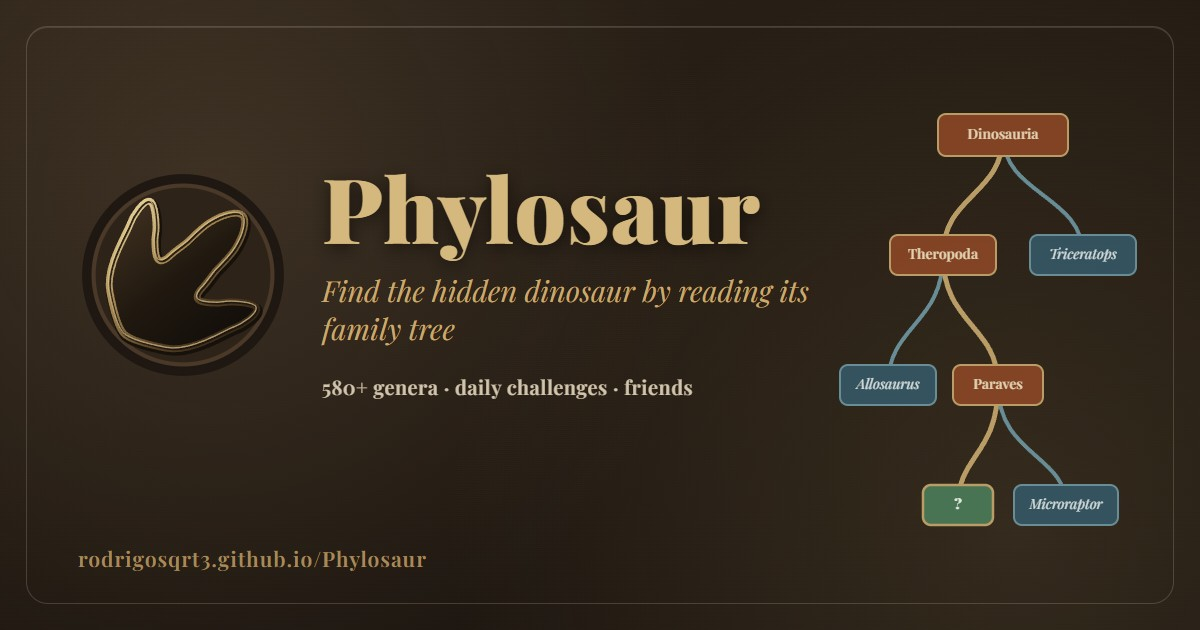
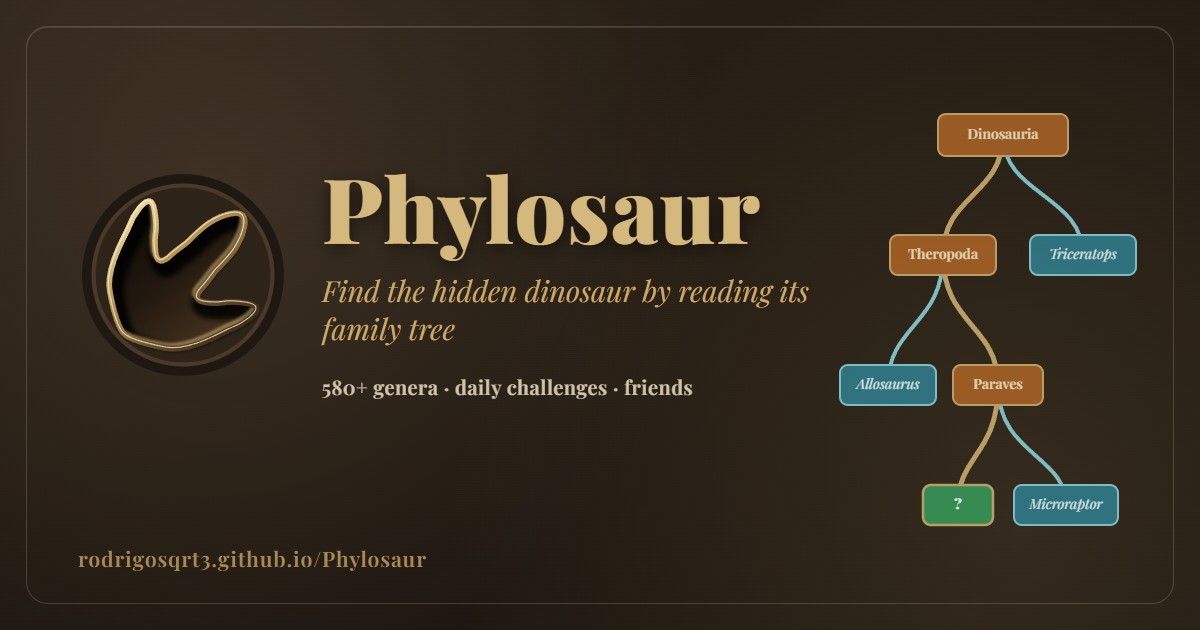
Add files via upload

diff --git a/generate-pwa-icons.html b/generate-pwa-icons.html
@@ -1,0 +1,133 @@
+<!DOCTYPE html>
+<html lang="en">
+<head>
+  <meta charset="UTF-8">
+  <meta name="viewport" content="width=device-width, initial-scale=1.0">
+  <title>Phylosaur PWA Icon Generator</title>
+  <style>
+    * { box-sizing: border-box; }
+    body {
+      min-height: 100vh;
+      margin: 0;
+      display: grid;
+      place-items: center;
+      padding: 24px;
+      color: #f8f6f3;
+      background: #1f1812;
+      font-family: Georgia, serif;
+      text-align: center;
+    }
+    main {
+      width: min(620px, 100%);
+      padding: 32px;
+      background: #2c2318;
+      border: 2px solid #4a3829;
+      border-radius: 8px;
+    }
+    svg { width: 180px; height: 180px; border-radius: 50%; }
+    h1 { color: #d4b87e; }
+    p { color: #a68a5a; line-height: 1.6; }
+    .buttons { display: grid; gap: 10px; margin-top: 24px; }
+    button {
+      min-height: 48px;
+      padding: 12px 18px;
+      color: #1a1410;
+      background: #c9a96e;
+      border: 2px solid #8b7355;
+      border-radius: 4px;
+      font: 600 14px Georgia, serif;
+      cursor: pointer;
+    }
+    #status { min-height: 24px; margin-top: 18px; color: #c8e6c9; }
+  </style>
+</head>
+<body>
+  <main>
+    <svg id="source-icon" xmlns="http://www.w3.org/2000/svg" viewBox="0 0 512 512" role="img" aria-labelledby="title desc">
+  <title id="title">Phylosaur</title>
+  <desc id="desc">A theropod footprint pressed into a dark circular seal, with a gold rim and a shadowed interior.</desc>
+  <defs>
+    <path id="footprint" d="M511.517 370.284c-5.971-20.294-92.954-22.906-113.159-18.866-20.216 4.041-76.79 2.68-88.913-9.443-12.124-12.124 4.041-32.329 16.175-44.451 12.124-12.124 38.389-50.524 46.472-58.606 8.082-8.082 50.166-50.378 65.325-74.758 30.988-49.843 41.437-98.68 25.262-114.845-16.164-16.164-65.003-5.727-114.834 25.262-24.38 15.17-66.688 57.244-74.769 65.325-8.083 8.083-46.472 34.36-58.606 46.483-12.122 12.124-32.328 28.287-44.451 16.164-12.122-12.124-13.474-68.698-9.433-88.902 4.041-20.205 1.419-107.187-18.866-113.16C121.438-5.483 83.798 44.94 68.984 87.37c-8.685 24.871-82.852 141.446-66.688 226.319 16.175 84.872 31 127.982 49.507 146.503 18.519 18.519 61.642 33.343 146.503 49.507 84.872 16.164 201.448-57.991 226.319-66.676 42.431-14.825 92.853-52.466 86.892-72.739z"/>
+    <clipPath id="footprint-clip"><use href="#footprint"/></clipPath>
+    <linearGradient id="imprint-rim" x1="15%" y1="8%" x2="88%" y2="92%">
+      <stop offset="0" stop-color="#ecd49a"/>
+      <stop offset="0.34" stop-color="#b8955a"/>
+      <stop offset="0.7" stop-color="#6a4f2c"/>
+      <stop offset="1" stop-color="#3a2a18"/>
+    </linearGradient>
+    <linearGradient id="imprint-floor" x1="12%" y1="6%" x2="86%" y2="94%">
+      <stop offset="0" stop-color="#0d0906"/>
+      <stop offset="0.45" stop-color="#22180f"/>
+      <stop offset="1" stop-color="#4a3620"/>
+    </linearGradient>
+    <filter id="soft" x="-20%" y="-20%" width="140%" height="140%"><feGaussianBlur stdDeviation="9"/></filter>
+    <filter id="softer" x="-20%" y="-20%" width="140%" height="140%"><feGaussianBlur stdDeviation="4"/></filter>
+    <filter id="cast" x="-18%" y="-18%" width="145%" height="150%" color-interpolation-filters="sRGB">
+      <feGaussianBlur in="SourceAlpha" stdDeviation="5" result="b"/>
+      <feOffset in="b" dx="3" dy="9" result="o"/>
+      <feFlood flood-color="#050302" flood-opacity="0.85"/>
+      <feComposite in2="o" operator="in" result="s"/>
+      <feMerge><feMergeNode in="s"/><feMergeNode in="SourceGraphic"/></feMerge>
+    </filter></defs>
+  <circle cx="256" cy="256" r="246" fill="#1f1812"/>
+  <circle cx="256" cy="256" r="218" fill="#2d2318" stroke="#4a3829" stroke-width="10"/>
+  <g transform="translate(76 76) scale(.703125)">
+    <use href="#footprint" fill="#0a0705" filter="url(#cast)"/>
+    <use href="#footprint" fill="url(#imprint-floor)"/>
+    <g clip-path="url(#footprint-clip)">
+      <use href="#footprint" fill="none" stroke="#000" stroke-opacity="0.85" stroke-width="70" transform="translate(16 22)" filter="url(#soft)"/>
+      <use href="#footprint" fill="none" stroke="#d9b876" stroke-opacity="0.55" stroke-width="16" transform="translate(-10 -13)" filter="url(#softer)"/>
+    </g>
+    <use href="#footprint" fill="none" stroke="url(#imprint-rim)" stroke-width="20" stroke-linejoin="round"/>
+    <use href="#footprint" fill="none" stroke="#fff3d2" stroke-opacity="0.75" stroke-width="4" stroke-linejoin="round" transform="translate(-3 -4)"/>
+  </g>
+</svg>
+
+    <h1>Phylosaur PWA Icons</h1>
+    <p>Click each button and keep the downloaded file name unchanged.</p>
+
+    <div class="buttons">
+      <button type="button" onclick="downloadIcon(192, 'pwa-icon-192.png')">Download pwa-icon-192.png</button>
+      <button type="button" onclick="downloadIcon(512, 'pwa-icon-512.png')">Download pwa-icon-512.png</button>
+      <button type="button" onclick="downloadIcon(180, 'apple-touch-icon.png')">Download apple-touch-icon.png</button>
+    </div>
+
+    <div id="status" aria-live="polite"></div>
+  </main>
+
+  <script>
+    async function downloadIcon(size, fileName) {
+      const source = document.getElementById('source-icon');
+      const serialized = new XMLSerializer().serializeToString(source);
+      const blob = new Blob([serialized], { type: 'image/svg+xml;charset=utf-8' });
+      const sourceUrl = URL.createObjectURL(blob);
+      const image = new Image();
+
+      await new Promise((resolve, reject) => {
+        image.onload = resolve;
+        image.onerror = reject;
+        image.src = sourceUrl;
+      });
+
+      const canvas = document.createElement('canvas');
+      canvas.width = size;
+      canvas.height = size;
+      const context = canvas.getContext('2d');
+      context.drawImage(image, 0, 0, size, size);
+      URL.revokeObjectURL(sourceUrl);
+
+      const pngBlob = await new Promise(resolve => canvas.toBlob(resolve, 'image/png'));
+      const downloadUrl = URL.createObjectURL(pngBlob);
+      const link = document.createElement('a');
+      link.href = downloadUrl;
+      link.download = fileName;
+      document.body.appendChild(link);
+      link.click();
+      link.remove();
+      setTimeout(() => URL.revokeObjectURL(downloadUrl), 1000);
+
+      document.getElementById('status').textContent = `${fileName} created successfully.`;
+    }
+  </script>
+</body>
+</html>

diff --git a/index.html b/index.html
@@ -62,7 +62,7 @@
     }
   }
   </script>
-  <link rel="icon" type="image/svg+xml" href="pwa-icon.svg">
+  <link rel="icon" type="image/svg+xml" href="favicon.svg">
   <link rel="apple-touch-icon" sizes="180x180" href="apple-touch-icon.png">
   <link rel="manifest" href="manifest.webmanifest">
   <meta name="application-name" content="Phylosaur">
@@ -88,20 +88,20 @@
   <script defer src="https://cdn.jsdelivr.net/npm/@supabase/supabase-js@2.117.1/dist/umd/supabase.js"
           integrity="sha384-K1nraABOP/zFehpLIUksXebbs7jMpB8gYMlb+uhVKZcWT/9Vkq1+qhv6ndC+1Yuz"
           crossorigin="anonymous"></script>
-  <link rel="stylesheet" href="style.css?v=211">
+  <link rel="stylesheet" href="style.css?v=212">
   
-  <script defer src="js/config.js?v=211"></script>
-  <script defer src="js/state.js?v=211"></script>
-  <script defer src="js/i18n.js?v=211"></script>
-  <script defer src="js/api.js?v=211"></script>
-  <script defer src="js/autocomplete.js?v=211"></script>
-  <script defer src="js/db.js?v=211"></script>
-  <script defer src="js/auth.js?v=211"></script>
-  <script defer src="js/ui.js?v=211"></script>
-  <script defer src="js/screens.js?v=211"></script>
-  <script defer src="js/tree.js?v=211"></script>
-  <script defer src="js/game.js?v=211"></script>
-  <script defer src="js/main.js?v=211"></script>
+  <script defer src="js/config.js?v=212"></script>
+  <script defer src="js/state.js?v=212"></script>
+  <script defer src="js/i18n.js?v=212"></script>
+  <script defer src="js/api.js?v=212"></script>
+  <script defer src="js/autocomplete.js?v=212"></script>
+  <script defer src="js/db.js?v=212"></script>
+  <script defer src="js/auth.js?v=212"></script>
+  <script defer src="js/ui.js?v=212"></script>
+  <script defer src="js/screens.js?v=212"></script>
+  <script defer src="js/tree.js?v=212"></script>
+  <script defer src="js/game.js?v=212"></script>
+  <script defer src="js/main.js?v=212"></script>
 </head>
 <body>
   <script>

diff --git a/sw.js b/sw.js
@@ -1,6 +1,6 @@
 /// <reference lib="webworker" />
 
-const CACHE_VERSION = "phylosaur-shell-v211";
+const CACHE_VERSION = "phylosaur-shell-v212";
 const CORE_ASSETS = [
   "./",
   "./index.html",
@@ -9,19 +9,19 @@ const CORE_ASSETS = [
   "./manifest.webmanifest",
   "./phylosaur_media_overrides.json?v=26",
   "./phylosaur_paleodata.json",
-  "./style.css?v=211",
-  "./js/config.js?v=211",
-  "./js/state.js?v=211",
-  "./js/i18n.js?v=211",
-  "./js/api.js?v=211",
-  "./js/autocomplete.js?v=211",
-  "./js/db.js?v=211",
-  "./js/auth.js?v=211",
-  "./js/ui.js?v=211",
-  "./js/screens.js?v=211",
-  "./js/tree.js?v=211",
-  "./js/game.js?v=211",
-  "./js/main.js?v=211"
+  "./style.css?v=212",
+  "./js/config.js?v=212",
+  "./js/state.js?v=212",
+  "./js/i18n.js?v=212",
+  "./js/api.js?v=212",
+  "./js/autocomplete.js?v=212",
+  "./js/db.js?v=212",
+  "./js/auth.js?v=212",
+  "./js/ui.js?v=212",
+  "./js/screens.js?v=212",
+  "./js/tree.js?v=212",
+  "./js/game.js?v=212",
+  "./js/main.js?v=212"
 ];
 
 // Decorative/install icons must not invalidate an otherwise complete shell.
@@ -29,7 +29,9 @@ const OPTIONAL_ASSETS = [
   "./pwa-icon-192.png",
   "./pwa-icon-512.png",
   "./apple-touch-icon.png",
-  "./pwa-icon.svg"
+  "./pwa-icon.svg",
+  "./pwa-icon-maskable-512.png",
+  "./favicon.svg"
 ];
 
 async function cacheAvailableCoreAssets() {

diff --git a/about.html b/about.html
@@ -56,10 +56,10 @@
   }
   </script>
 
-  <link rel="icon" type="image/svg+xml" href="pwa-icon.svg">
+  <link rel="icon" type="image/svg+xml" href="favicon.svg">
   <link rel="apple-touch-icon" sizes="180x180" href="apple-touch-icon.png">
   <link rel="stylesheet" href="https://cdn.jsdelivr.net/npm/katex@0.16.9/dist/katex.min.css">
-  <link rel="stylesheet" href="style.css?v=211">
+  <link rel="stylesheet" href="style.css?v=212">
   <link rel="preconnect" href="https://cdn.jsdelivr.net" crossorigin>
   <link rel="preconnect" href="https://fonts.googleapis.com">
   <link rel="preconnect" href="https://fonts.gstatic.com" crossorigin>
@@ -67,8 +67,8 @@
   <meta name="theme-color" content="#2d2318">
   <script defer src="https://cdn.jsdelivr.net/npm/katex@0.16.9/dist/katex.min.js"></script>
   <script defer src="https://cdn.jsdelivr.net/npm/katex@0.16.9/dist/contrib/auto-render.min.js"></script>
-  <script defer src="js/state.js?v=211"></script>
-  <script defer src="js/i18n.js?v=211"></script>
+  <script defer src="js/state.js?v=212"></script>
+  <script defer src="js/i18n.js?v=212"></script>
 </head>
 <body>
   <div class="info-shell">

diff --git a/js/state.js b/js/state.js
@@ -1,7 +1,7 @@
 // ═══════════════════════════════════════════════
 // GLOBAL STATE
 // ═══════════════════════════════════════════════
-const PHYLOSAUR_RELEASE_VERSION = 211;
+const PHYLOSAUR_RELEASE_VERSION = 212;
 const PHYLOSAUR_STORAGE_KEYS = Object.freeze({
   theme: 'phylosaur-theme',
   language: 'phylosaur-language',
